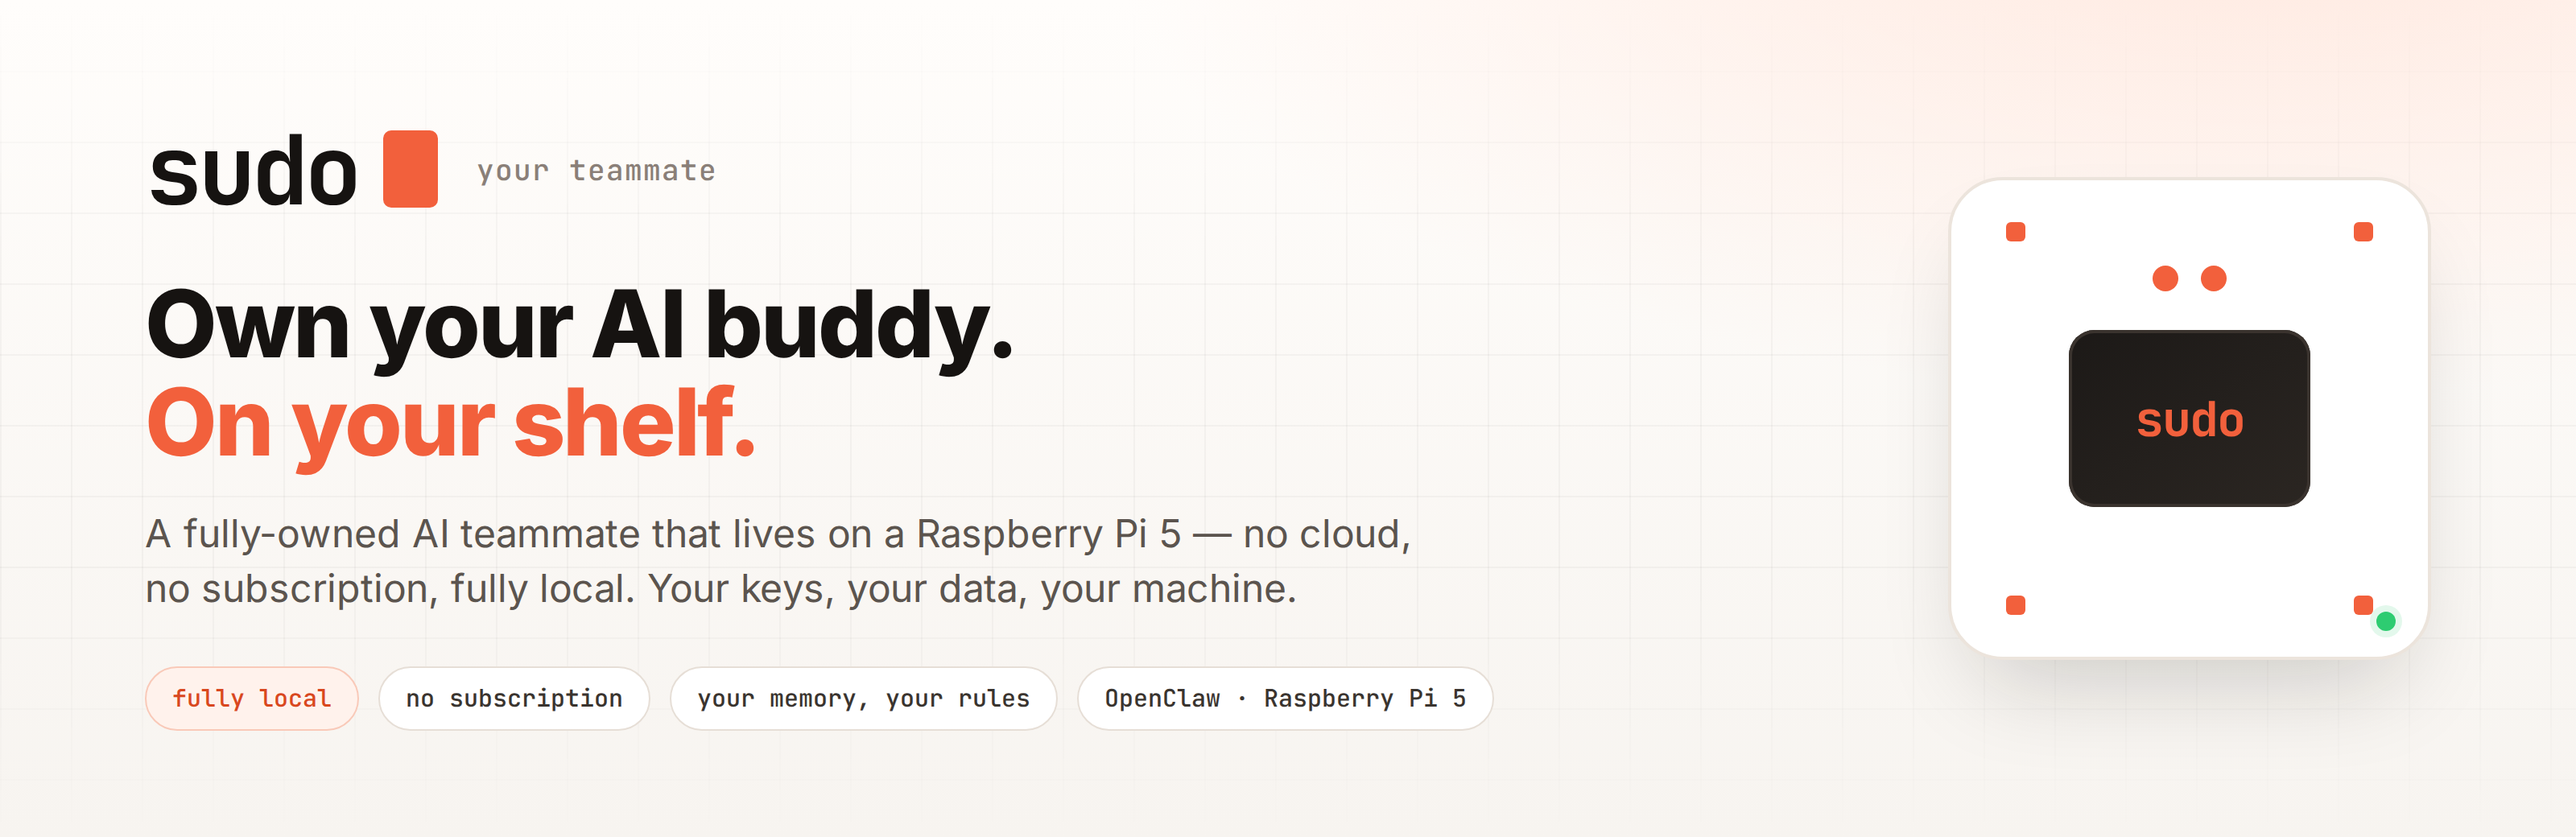
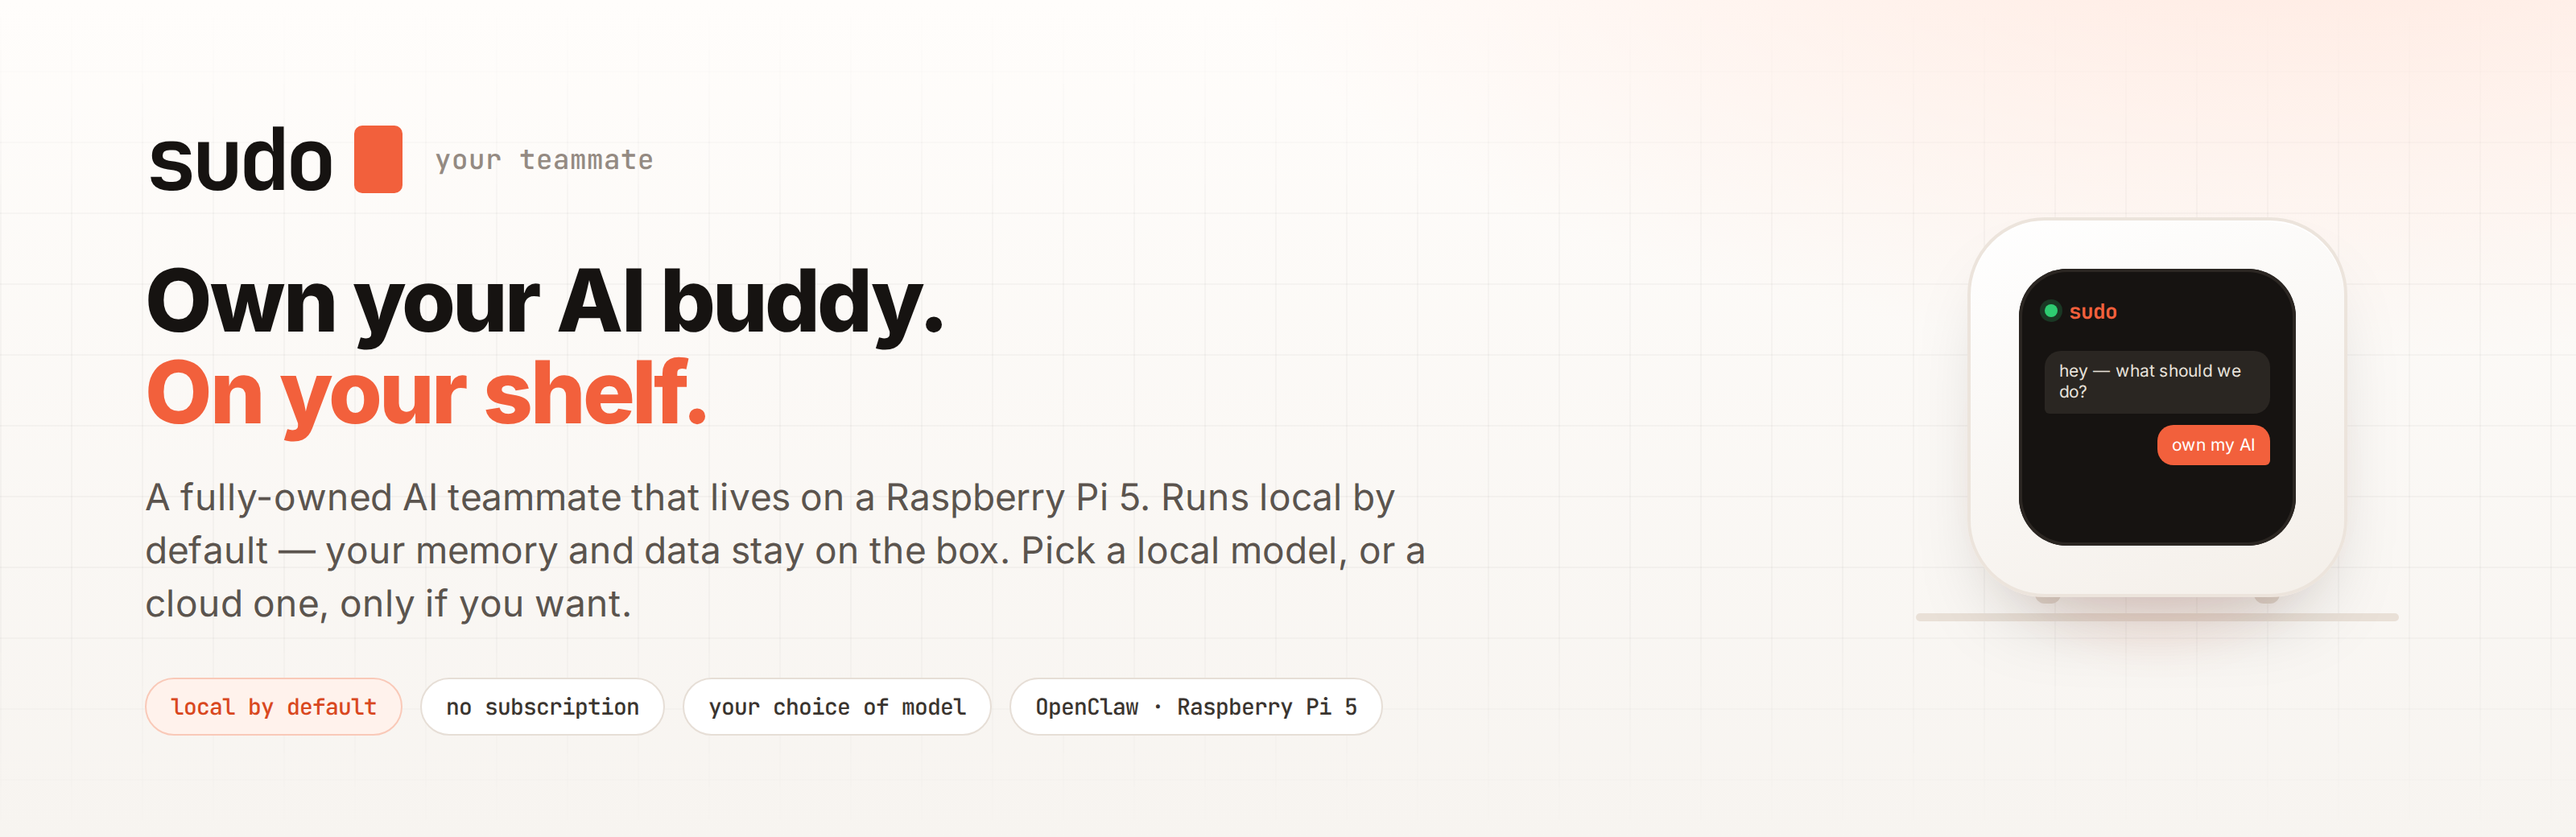
README: rework hero device + honest cloud wording (local by default, cloud is opt-in)

diff --git a/README.md b/README.md
@@ -11,7 +11,7 @@ No cloud. No subscription. Fully local. Your keys, your data, your machine.
 
 <img src="https://img.shields.io/badge/hardware-Raspberry%20Pi%205-C51A4A?style=flat-square" alt="Raspberry Pi 5">
 <img src="https://img.shields.io/badge/runs%20on-OpenClaw-161311?style=flat-square" alt="OpenClaw">
-<img src="https://img.shields.io/badge/fully-local-F2603C?style=flat-square" alt="Fully local">
+<img src="https://img.shields.io/badge/local%20by%20default-F2603C?style=flat-square" alt="Local by default">
 <img src="https://img.shields.io/badge/subscription-none-2ecc71?style=flat-square" alt="No subscription">
 <img src="https://img.shields.io/badge/status-early%20access-F2A03C?style=flat-square" alt="Early access">
 
@@ -25,7 +25,7 @@ No cloud. No subscription. Fully local. Your keys, your data, your machine.
 
 > **Ownership without the CS degree.**
 
-Everyone will be able to *use* an agent. The durable value is *owning* one — your keys, your data, your machine, your model choice. `sudo` makes that as easy as the cloud incumbents.
+Everyone will be able to *use* an agent. The durable value is *owning* one — your keys, your data, your machine, your model choice. `sudo` makes that as easy as the cloud incumbents — and it's yours, whether you run a local model or plug in a cloud one.
 
 <div align="center">
   <img src="assets/how-it-works.png" alt="How sudo works: plug it in, pick your Wi-Fi, say hi, own your AI" width="100%">
@@ -35,10 +35,10 @@ Everyone will be able to *use* an agent. The durable value is *owning* one — y
 
 ## Features
 
-- 🏠 **Fully local** — files and memory live on-device. Nothing phones home.
+- 🏠 **Local by default** — the agent runs on your box, and your memory lives on-device.
 - 🔒 **Private by default** — your memory, your rules.
-- 💳 **No subscription** — buy the box, own the agent. Period.
-- 🧠 **Multi-model** — Claude, OpenAI, Chinese open-source models, local LLMs.
+- 💳 **No subscription required** — buy the box, own the agent.
+- 🧠 **Your choice of model** — run a local model offline, or connect a cloud model *only if you want*.
 - 🤖 **Multi-bot** — several agents in one chat.
 - 📊 **Local dashboards** — the private apps your agent can run.
 - 💬 **Real connectors** — WhatsApp, email, and text, out of the box.
@@ -51,7 +51,7 @@ Everyone will be able to *use* an agent. The durable value is *owning* one — y
 1. **Plug it in** — the box boots a setup hotspot. No terminal, no config files.
 2. **Pick your Wi-Fi** — a captive portal connects it once. It never asks again.
 3. **Say hi** — name yourself, name your agent, choose its personality.
-4. **Own your AI** — chat on your own hardware. Your data never leaves the box.
+4. **Own your AI** — chat on your own hardware. Your memory stays on the box; connect a cloud model only if you want to.
 
 > "This is when it stops feeling like a tool and starts feeling like a teammate."
 >
